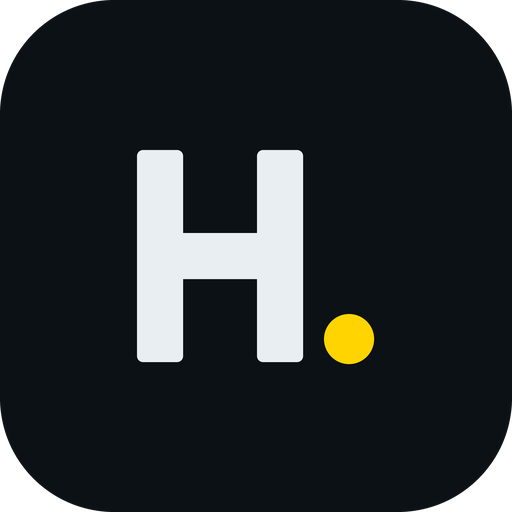
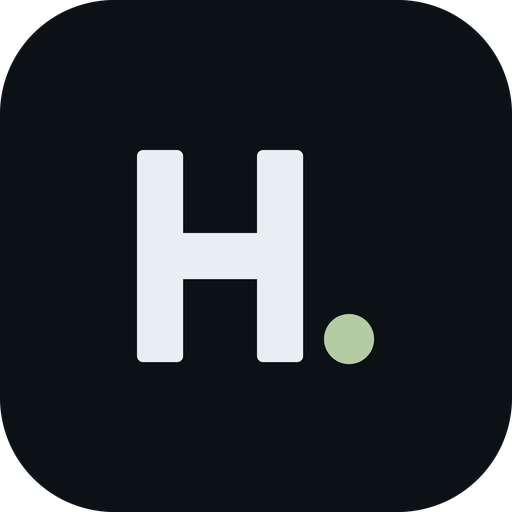
Add files via upload

Changed region(s): [[0.625, 0.5938, 0.75, 0.7188]]

diff --git a/App.jsx b/App.jsx
@@ -1562,8 +1562,8 @@ export function advancePlayoffs(lg, state, matchups) {
 const CSS = `
 @import url('https://fonts.googleapis.com/css2?family=Barlow+Condensed:wght@500;600;700&family=Inter:wght@400;500;600&family=JetBrains+Mono:wght@500;700&display=swap');
 .hd { --nudge:0px; --safe-top:env(safe-area-inset-top,0px); --safe-bot:env(safe-area-inset-bottom,0px); --ink:#0C1116; --panel:#141C24; --panel2:#1B252F; --line:#26323D;
-  --chalk:#E9EEF2; --mute:#8B9BA8; --first:#FFD400; --los:#3B7BFF;
-  --red:#E2483A; --green:#22C48A;
+  --chalk:#E9EEF2; --mute:#8B9BA8; --first:#B4CBA4; --los:#3B7BFF;
+  --red:#EF6153; --green:#4FB98D;
   background:var(--ink); color:var(--chalk); font-family:Inter,system-ui,sans-serif;
   min-height:100vh; -webkit-font-smoothing:antialiased; font-size:15.5px; }
 .hd *{box-sizing:border-box}
@@ -1589,12 +1589,6 @@ const CSS = `
 .subnav{position:sticky;top:0;z-index:25;display:grid;grid-template-columns:repeat(3,1fr);gap:3px;
   padding:8px 10px;background:rgba(12,17,22,.97);backdrop-filter:blur(8px);
   border-bottom:1px solid var(--line)}
-/* the band that says, unmistakably, that everything below is simulated */
-.mockband{position:sticky;top:0;z-index:26;display:flex;align-items:center;gap:9px;
-  padding:7px 14px;background:rgba(255,212,0,.10);border-bottom:1px solid rgba(255,212,0,.28)}
-.mockband .eyebrow{color:var(--first)}
-.mockband .exit{margin-left:auto;font-size:11.5px;font-weight:700;color:var(--first);
-  font-family:'Barlow Condensed',sans-serif;text-transform:uppercase;letter-spacing:.06em}
 .snb{padding:9px 2px;border-radius:8px;background:transparent;border:none;white-space:nowrap;
   font-size:13px;font-weight:700;color:var(--mute);font-family:'Barlow Condensed',sans-serif;
   text-transform:uppercase;letter-spacing:.06em;position:relative;text-align:center}
@@ -1660,7 +1654,7 @@ const CSS = `
 .act .arw{color:var(--mute);font-size:20px;flex:none}
 .wk{display:flex;align-items:center;gap:10px;padding:7px 0;border-bottom:1px solid var(--line)}
 .wk:last-child{border-bottom:none}
-.wk.po{background:rgba(255,212,0,.05)}
+.wk.po{background:rgba(180,203,164,.05)}
 .wkn{width:26px;flex:none;font-family:'JetBrains Mono',monospace;font-size:11.5px;color:var(--mute);text-align:right}
 .rng{width:78px;flex:none;text-align:right}
 .rngbar{height:4px;background:var(--panel2);border-radius:99px;position:relative;margin:4px 0 3px;overflow:hidden}
@@ -2260,7 +2254,7 @@ function DraftRoom({ lg, setLg, toast }) {
   return (
     <div className="wrap">
       <div className="card" style={{ padding: 0, overflow: "hidden" }}>
-        <div style={{ padding: "12px 13px", background: isUser ? "rgba(255,212,0,.10)" : "transparent" }}>
+        <div style={{ padding: "12px 13px", background: isUser ? "rgba(180,203,164,.10)" : "transparent" }}>
           <div className="row sp">
             <div>
               <div className="eyebrow">Round {roundOf(lg, lg.picks.length)} · Pick {slotOf(lg, lg.picks.length)} · #{lg.picks.length + 1} overall</div>
@@ -2287,7 +2281,7 @@ function DraftRoom({ lg, setLg, toast }) {
       {lg.picks.length > 0 && (
         <div className="scroll-x" style={{ marginBottom: 11 }}>
           {lg.picks.slice(-8).reverse().map((pk) => (
-            <div key={pk.overall} className="chip" style={{ background: lg.gms[pk.gmIdx].isUser ? "rgba(255,212,0,.14)" : undefined, color: lg.gms[pk.gmIdx].isUser ? "var(--first)" : undefined }}>
+            <div key={pk.overall} className="chip" style={{ background: lg.gms[pk.gmIdx].isUser ? "rgba(180,203,164,.14)" : undefined, color: lg.gms[pk.gmIdx].isUser ? "var(--first)" : undefined }}>
               {pk.overall}. {BY_ID[pk.playerId].name}
             </div>
           ))}
@@ -3061,7 +3055,7 @@ function TradeDesk({ lg, setLg, values, toast }) {
         const on = sel.includes(id);
         return (
           <div key={id} className="plr" onClick={() => { setSel(sel.includes(id) ? sel.filter((x) => x !== id) : [...sel, id]); setReply(null); }}
-            style={{ cursor: "pointer", background: on ? "rgba(255,212,0,.10)" : undefined }}>
+            style={{ cursor: "pointer", background: on ? "rgba(180,203,164,.10)" : undefined }}>
             <div className={POSC(BY_ID[id].pos)}>{BY_ID[id].pos === "DST" ? "DEF" : BY_ID[id].pos}</div>
             <div style={{ flex: 1, minWidth: 0 }}>
               <div className="nm"><Tap id={id}>{BY_ID[id].name}</Tap></div>
@@ -3188,7 +3182,7 @@ function TradeDesk({ lg, setLg, values, toast }) {
 function ChampionCard({ lg, s }) {
   const g = lg.gms[s.champion];
   return (
-    <div className="card" style={{ borderColor: "var(--first)", background: "rgba(255,212,0,.07)" }}>
+    <div className="card" style={{ borderColor: "var(--first)", background: "rgba(180,203,164,.07)" }}>
       <div className="eyebrow">Champion</div>
       <h1 style={{ fontSize: 32, margin: "6px 0" }}>{g.name}</h1>
       <div className="mini">{g.isUser ? "You won it. The season broke your way. Check the wire log to see which pickup swung it." : "Better luck next mock. Run it back from the home screen with a different draft slot."}</div>
@@ -3286,7 +3280,7 @@ function StandingsView({ lg, s, table }) {
     <>
       <div className="card tight">
         {table.map((t, i) => (
-          <div key={t.idx} className="plr" style={{ background: t.isUser ? "rgba(255,212,0,.07)" : undefined }}>
+          <div key={t.idx} className="plr" style={{ background: t.isUser ? "rgba(180,203,164,.07)" : undefined }}>
             <div className="disp num" style={{ width: 22, color: i < s.shape.pT ? "var(--first)" : "var(--mute)", fontSize: 17 }}>{i + 1}</div>
             <div style={{ flex: 1, minWidth: 0 }}>
               <div className="nm" style={{ whiteSpace: "nowrap", overflow: "hidden", textOverflow: "ellipsis" }}>{t.name}</div>
@@ -4085,7 +4079,7 @@ function GMChat({ lg }) {
    with no mock league required. Saved separately from any league.
    ============================================================ */
 
-export const VERSION = "1.12.0";
+export const VERSION = "1.12.1";
 const MY_KEY = "huddle:myteam";
 
 const DEFAULT_MY = { ids: [], teams: 12, ppr: 1, superflex: false, name: "My Team", topPad: 0, liveInjuries: true };
@@ -4940,7 +4934,7 @@ function BoardArchive({ onBack }) {
                 const isUser = p.gmIdx === open.userSlot;
                 const edge = p.overall - p.adp;
                 return (
-                  <div key={p.overall} className="plr" style={{ background: isUser ? "rgba(255,212,0,.09)" : undefined }}>
+                  <div key={p.overall} className="plr" style={{ background: isUser ? "rgba(180,203,164,.09)" : undefined }}>
                     <div className="disp num" style={{ width: 34, fontSize: 12, color: "var(--mute)", flex: "none" }}>
                       {r}.{String(p.slot).padStart(2, "0")}
                     </div>
@@ -5317,13 +5311,6 @@ export default function App() {
               </div>
             </div>
           </div>
-
-          {screen === "mock" && (
-            <div className="mockband">
-              <div className="eyebrow">Mock season · simulated</div>
-              <button className="exit" onClick={home}>Exit to my league</button>
-            </div>
-          )}
 
           {screen === "mock" && lg && (
             <div className="subnav">
